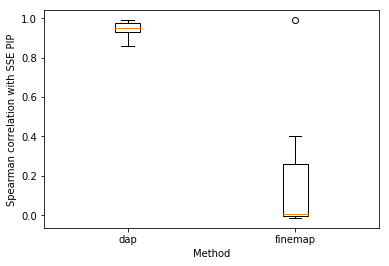
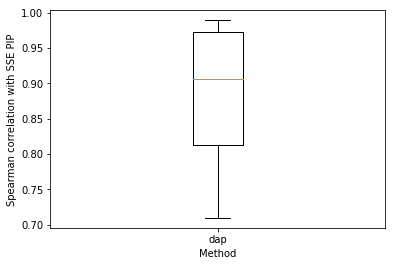
Test simulation for multiple causal variants

diff --git a/docs/pip.html b/docs/pip.html
@@ -1,7 +1,7 @@
 <!DOCTYPE html>
 <html lang="en">
 <head>
-<!-- 2017-12-02 Sat 00:10 -->
+<!-- 2017-12-04 Mon 10:40 -->
 <meta charset="utf-8">
 <meta name="viewport" content="width=device-width, initial-scale=1">
 <title>PIP calibration</title>
@@ -259,6 +259,7 @@ for the JavaScript code in this tag.
 <ul>
 <li><a href="#org068fe8b">Introduction</a></li>
 <li><a href="#orgc62c868">One causal variant</a></li>
+<li><a href="#orgdcb5f1c">Two causal variants</a></li>
 </ul>
 </div>
 </div>
@@ -273,10 +274,6 @@ variational approximation against other methods:
 </p>
 
 <ul class="org-ul">
-<li><a href="https://academic.oup.com/bioinformatics/article-lookup/doi/10.1093/bioinformatics/btw018">FINEMAP</a> (2016). We used version 1.1, setting the prior on the effect size
-scale to \(N(0, 1)\) (matching the simulation). We used defaults for all
-other settings. (<code>sse.wrapper.finemap</code>)</li>
-
 <li><a href="http://www.sciencedirect.com/science/article/pii/S0002929716300957?via%3Dihub">DAP</a> (2016). We used version 1.0, setting \(\phi = 0\) (no heterogeneity
 between groups of samples) and \(\omega = 1\) (matching the
 simulation). (<code>sse.wrapper.dap</code>)</li>
@@ -313,9 +310,7 @@ upstream (respecting strand) of the gene start (<code>sse.evaluate.read_vcf</cod
 <i>cis</i>-heritability of gene expression across all genes; <a href="https://www.nature.com/articles/ng.3506">Gusev et al 2016</a>,
 <a href="https://www.nature.com/articles/ng.3506">Wheeler et al 2016</a>)</li>
 <li>Sample causal effects from \(\beta_j \sim N(0, 1)\)
-(<code>sse.simulation.Simulation.sample_effects</code>). To ensure the methods can
-detect the causal variant, we only sample from among variants with minor
-allele frequency \(> 0.25\). (<code>sse.evaluate._generate_pheno</code>)</li>
+(<code>sse.simulation.Simulation.sample_effects</code>).</li>
 <li>Compute genetic variance \(V_g = \sum_j 2 f_j (1 - f_j) \beta_j^2\)</li>
 <li>Sample residuals \(\epsilon_i \sim N(0, V_g (1 / h^2 - 1))\)</li>
 <li>Compute phenotypes \(y_i = X_i\beta + \epsilon_i\) (<code>sse.simulation.Simulation.compute_liabilities</code>)</li>
@@ -333,14 +328,14 @@ allele frequency \(> 0.25\). (<code>sse.evaluate._generate_pheno</code>)</li>
   num_genes=1,
   num_trials=10,
   num_effects=10,
-  max_epochs=100,
+  max_epochs=200,
   seed=0)
 </pre>
 </div>
 
 <div class="org-src-container">
 <pre class="src src-ipython">plt.clf()
-plt.boxplot(one_causal.values, labels=one_causal.columns)
+plt.boxplot(one_causal.fillna(0).values, labels=one_causal.columns)
 plt.xlabel(<span class="org-string">'Method'</span>)
 plt.ylabel(<span class="org-string">'Spearman correlation with SSE PIP'</span>)
 plt.gcf()
@@ -352,87 +347,45 @@ plt.gcf()
 <p><img src="one-causal-variant-spearman.png" alt="one-causal-variant-spearman.png">
 </p>
 </div>
+</div>
+</div>
 
-<p>
-Investigate what's going on with FINEMAP:
-</p>
-
+<div id="outline-container-orgdcb5f1c" class="outline-2">
+<h2 id="orgdcb5f1c">Two causal variants</h2>
+<div class="outline-text-2" id="text-orgdcb5f1c">
 <div class="org-src-container">
-<pre class="src src-ipython"><span class="org-variable-name">x</span>, <span class="org-variable-name">y</span>, <span class="org-variable-name">s</span> = sse.evaluate._generate_pheno(0, genes.loc[<span class="org-string">"ENSG00000143641"</span>], genotype_files, 1, <span class="org-builtin">int</span>(1e5))
-<span class="org-variable-name">pip</span> = (sse.model.GaussianSSE()
-       .fit(x, y)
-       .pip_df
-       .agg(np.<span class="org-builtin">sum</span>, axis=1)
-       .to_frame()
-       .merge(sse.wrapper.finemap(x, y), left_index=<span class="org-constant">True</span>, right_index=<span class="org-constant">True</span>)
-       .rename(columns={0: <span class="org-string">'sse_pip'</span>, <span class="org-string">'pip'</span>: <span class="org-string">'finemap_pip'</span>}))
-<span class="org-variable-name">pip</span>[<span class="org-string">'causal'</span>] = s.theta != 0
-<span class="org-variable-name">pip</span>[<span class="org-string">'true_effect'</span>] = s.theta
+<pre class="src src-ipython"><span class="org-variable-name">two_causal</span> = sse.evaluate.pip_calibration(
+  genes=genes,
+  genotype_files=genotype_files,
+  num_genes=1,
+  num_trials=10,
+  num_causal=2,
+  num_effects=10,
+  max_epochs=200,
+  seed=0)
 </pre>
 </div>
 
-<p>
-SSE correctly recovers the causal variant, although the PIPs suggest that
-the simulated problem might be difficult for any method.
-</p>
-
 <div class="org-src-container">
-<pre class="src src-ipython">pip.sort_values(by=<span class="org-string">'sse_pip'</span>, ascending=<span class="org-constant">False</span>).head()
+<pre class="src src-ipython">plt.clf()
+plt.boxplot(two_causal.fillna(0).values, labels=two_causal.columns)
+plt.xlabel(<span class="org-string">'Method'</span>)
+plt.ylabel(<span class="org-string">'Spearman correlation with SSE PIP'</span>)
+plt.gcf()
 </pre>
 </div>
 
-<pre class="example">
-        sse_pip  index  finemap_pip  log10bf  causal  true_effect
-snp1278  0.264491   1279       0.1968   2.3662    True     1.031421
-snp1232  0.225833   1233       0.1843   2.3312   False     0.000000
-snp714   0.114354    715       0.1195   2.1096   False     0.000000
-snp980   0.085730    981       0.0867   1.9547   False     0.000000
-snp1122  0.071195   1123       0.0548   1.7401   False     0.000000
-</pre>
 
-<p>
-FINEMAP assigns stronger PIP to non-causal variants.
+<div class="figure">
+<p><img src="two-causal-variants-spearman.png" alt="two-causal-variants-spearman.png">
 </p>
-
-<div class="org-src-container">
-<pre class="src src-ipython">pip.sort_values(by=<span class="org-string">'log10bf'</span>, ascending=<span class="org-constant">False</span>).head()
-</pre>
 </div>
-
-<pre class="example">
-            sse_pip  index  finemap_pip  log10bf  causal  true_effect
-snp1398  2.676482e-05   1399       1.0000  12.9767   False     0.000000
-snp1404  1.135552e-08   1405       0.9998   6.6873   False     0.000000
-snp676   7.362895e-14    677       0.8887   3.8795   False     0.000000
-snp1278  2.644909e-01   1279       0.1968   2.3662    True     1.031421
-snp1232  2.258332e-01   1233       0.1843   2.3312   False     0.000000
-</pre>
-
-<p>
-FINEMAP picks SNPs in strong LD with the causal variant over the causal
-variant:
-</p>
-
-<div class="org-src-container">
-<pre class="src src-ipython"><span class="org-variable-name">query</span> = pip.sort_values(by=<span class="org-string">'log10bf'</span>, ascending=<span class="org-constant">False</span>).head().index
-pd.DataFrame(x, columns=[<span class="org-string">'snp{}'</span>.<span class="org-builtin">format</span>(i) <span class="org-keyword">for</span> i <span class="org-keyword">in</span> <span class="org-builtin">range</span>(x.shape[1])])[query].corr()
-</pre>
-</div>
-
-<pre class="example">
-        snp1398   snp1404    snp676   snp1278   snp1232
-snp1398  1.000000 -0.761444 -0.100979  0.793857  0.811527
-snp1404 -0.761444  1.000000  0.047893 -0.582444 -0.598379
-snp676  -0.100979  0.047893  1.000000 -0.107882 -0.106737
-snp1278  0.793857 -0.582444 -0.107882  1.000000  0.973466
-snp1232  0.811527 -0.598379 -0.106737  0.973466  1.000000
-</pre>
 </div>
 </div>
 </div>
 <div id="postamble" class="status">
 <p class="author">Author: Abhishek Sarkar</p>
-<p class="date">Created: 2017-12-02 Sat 00:10</p>
+<p class="date">Created: 2017-12-04 Mon 10:40</p>
 <p class="validation"><a href="http://validator.w3.org/check?uri=referer">Validate</a></p>
 </div>
 </body>
